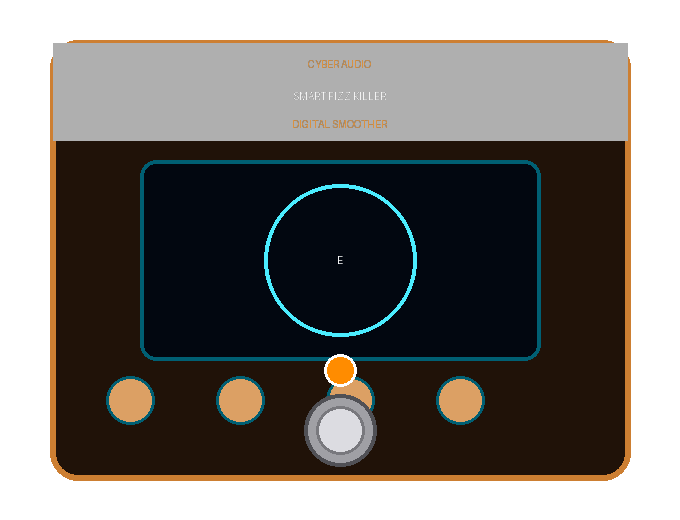
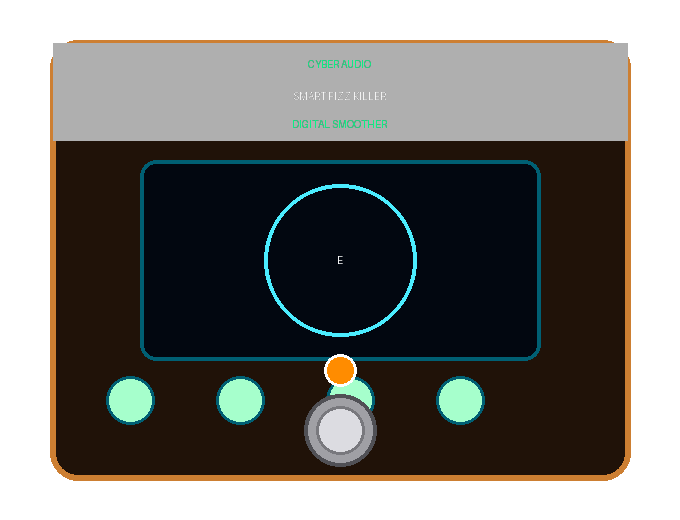
Release smart-fizz-killer-lv2 v1.0.0

diff --git a/modgui/stylesheet-smart-fizz-killer.css b/modgui/stylesheet-smart-fizz-killer.css
@@ -1,0 +1,204 @@
+/* Smart Fizz Killer Stylesheet for MODEP / MOD-UI */
+
+.smart-fizz-pedal {
+    position: absolute;
+    width: 340px;
+    height: 520px;
+    background: radial-gradient(circle at 50% 20%, #2a1a0a 0%, #1c0e05 60%, #100803 100%);
+    border-radius: 24px;
+    box-shadow: 0 14px 35px rgba(0, 0, 0, 0.95), 
+                inset 0 1px 3px rgba(205, 127, 50, 0.5), 
+                inset 0 -4px 8px rgba(0, 0, 0, 0.95);
+    border: 3px solid #b87333;
+    box-sizing: border-box;
+    font-family: 'Segoe UI', 'Helvetica Neue', Arial, sans-serif;
+    user-select: none;
+    overflow: visible;
+    z-index: 10;
+}
+
+.smart-fizz-pedal .mod-drag-handle {
+    position: absolute;
+    top: 0;
+    left: 0;
+    width: 100%;
+    height: 28px;
+    cursor: move;
+    z-index: 20;
+}
+
+.smart-fizz-pedal .mod-plugin-brand {
+    text-align: center;
+    margin-top: 10px;
+}
+
+.smart-fizz-pedal .mod-plugin-brand h1 {
+    font-size: 10px;
+    letter-spacing: 2.5px;
+    color: #c9a96e;
+    font-weight: 800;
+    text-transform: uppercase;
+    text-shadow: 0 0 8px rgba(201, 169, 110, 0.6);
+    margin: 0;
+}
+
+.smart-fizz-pedal .mod-plugin-name {
+    text-align: center;
+    border-bottom: 1.5px solid rgba(205, 127, 50, 0.35);
+    padding-bottom: 3px;
+    margin: 1px 24px 6px 24px;
+}
+
+.smart-fizz-pedal .mod-plugin-name h1 {
+    font-size: 15px;
+    font-weight: 900;
+    letter-spacing: 1.2px;
+    color: #f5d6a8;
+    text-shadow: 0 0 12px rgba(205, 127, 50, 0.8), 0 0 20px rgba(201, 169, 110, 0.5);
+    margin: 0;
+}
+
+/* ========================================================
+   SECTION HEADERS & ROW WRAPPERS
+======================================================== */
+.smart-fizz-pedal .knob-section-header {
+    display: flex;
+    align-items: center;
+    justify-content: center;
+    margin: 4px 18px 2px 18px;
+}
+
+.smart-fizz-pedal .knob-section-header .section-title {
+    font-size: 7.5px;
+    font-weight: 800;
+    letter-spacing: 1.5px;
+    color: #c9a96e;
+    text-transform: uppercase;
+    background: rgba(42, 26, 10, 0.8);
+    padding: 1px 8px;
+    border-radius: 4px;
+    border: 1px solid rgba(205, 127, 50, 0.3);
+    text-shadow: 0 1px 2px rgba(0, 0, 0, 0.9);
+}
+
+.smart-fizz-pedal .mod-control-group {
+    display: flex;
+    align-items: flex-start;
+    padding: 0 10px;
+    margin-bottom: 4px;
+}
+
+.smart-fizz-pedal .mod-control-group.row-4 {
+    justify-content: space-around;
+}
+
+.smart-fizz-pedal .mod-control-group.row-3 {
+    justify-content: center;
+    gap: 22px;
+}
+
+/* ========================================================
+   ROTARY KNOBS & LABELS
+======================================================== */
+.smart-fizz-pedal .mod-knob {
+    display: flex;
+    flex-direction: column;
+    align-items: center;
+    width: 68px;
+    margin: 0;
+    position: relative;
+}
+
+.smart-fizz-pedal .custom-knob-dial {
+    width: 48px;
+    height: 48px;
+    border-radius: 50%;
+    background: radial-gradient(circle at 35% 35%, #3a2211 0%, #1a0d05 70%, #0c0602 100%);
+    border: 2px solid #cd7f32;
+    box-shadow: 0 4px 10px rgba(0, 0, 0, 0.9), 
+                inset 0 1px 3px rgba(230, 160, 90, 0.4), 
+                inset 0 -2px 4px rgba(0, 0, 0, 0.8);
+    position: relative;
+    cursor: pointer;
+    transition: border-color 0.15s ease, box-shadow 0.15s ease;
+    box-sizing: border-box;
+}
+
+.smart-fizz-pedal .custom-knob-dial:hover {
+    border-color: #e59850;
+    box-shadow: 0 4px 12px rgba(0, 0, 0, 0.95), 
+                0 0 8px rgba(205, 127, 50, 0.5), 
+                inset 0 1px 3px rgba(255, 200, 140, 0.6);
+}
+
+.smart-fizz-pedal .custom-knob-dial .knob-rotor {
+    position: absolute;
+    top: 50%;
+    left: 50%;
+    width: 3px;
+    height: 16px;
+    background: #e59850;
+    border-radius: 1.5px;
+    box-shadow: 0 0 5px #cd7f32;
+    transform-origin: bottom center;
+    transform: translate(-50%, -100%) rotate(0deg);
+    pointer-events: none;
+}
+
+.smart-fizz-pedal .mod-knob-title {
+    font-size: 7.5px;
+    font-weight: 800;
+    color: #cd7f32;
+    letter-spacing: 0.8px;
+    margin-top: 3px;
+    text-shadow: 0 1px 2px rgba(0, 0, 0, 0.95);
+    text-transform: uppercase;
+    text-align: center;
+    line-height: 1.1;
+    white-space: nowrap;
+}
+
+/* ========================================================
+   BYPASS LIGHT & FOOTSWITCH
+======================================================== */
+.smart-fizz-pedal .mod-light {
+    position: absolute;
+    bottom: 84px;
+    left: 50%;
+    transform: translateX(-50%);
+    width: 16px;
+    height: 16px;
+    border-radius: 50%;
+    background-color: #241402;
+    border: 2px solid #6b3e12;
+    box-shadow: inset 0 1px 3px rgba(0, 0, 0, 0.8);
+    transition: all 0.15s ease-in-out;
+    cursor: pointer;
+    z-index: 50;
+}
+
+.smart-fizz-pedal .mod-light.on,
+.smart-fizz-pedal.mod-pedal-on .mod-light {
+    background-color: #ff9933;
+    box-shadow: 0 0 14px #ff9933, 0 0 25px #cc6600, inset 0 1px 2px #ffffff;
+    border-color: #ffcc99;
+}
+
+.smart-fizz-pedal .mod-footswitch {
+    position: absolute !important;
+    bottom: 12px;
+    left: 50% !important;
+    transform: translateX(-50%) !important;
+    width: 66px !important;
+    height: 66px !important;
+    background-image: url(/resources/pedals/footswitch.png) !important;
+    background-position: bottom center !important;
+    background-repeat: no-repeat !important;
+    background-size: auto 132px !important;
+    cursor: pointer !important;
+    z-index: 60 !important;
+}
+
+.smart-fizz-pedal .mod-footswitch.on {
+    background-position-y: top !important;
+}
